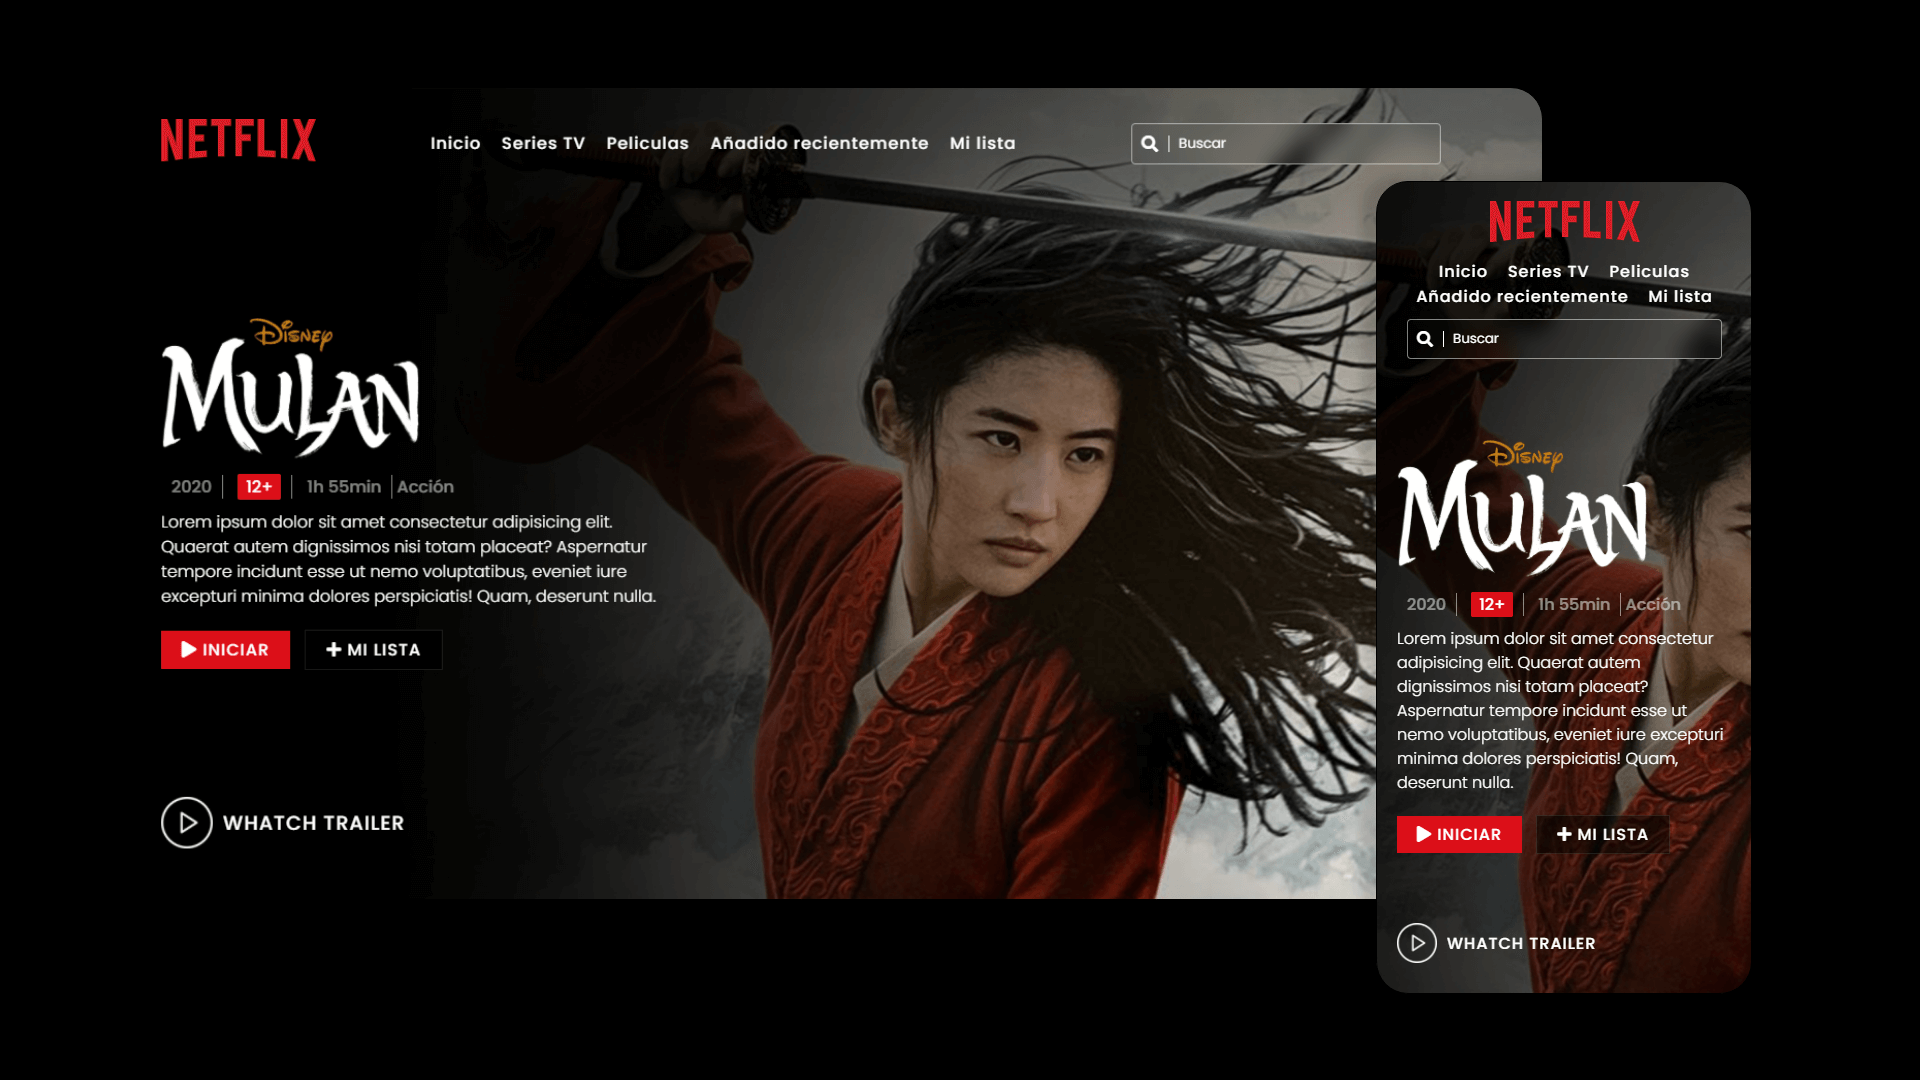
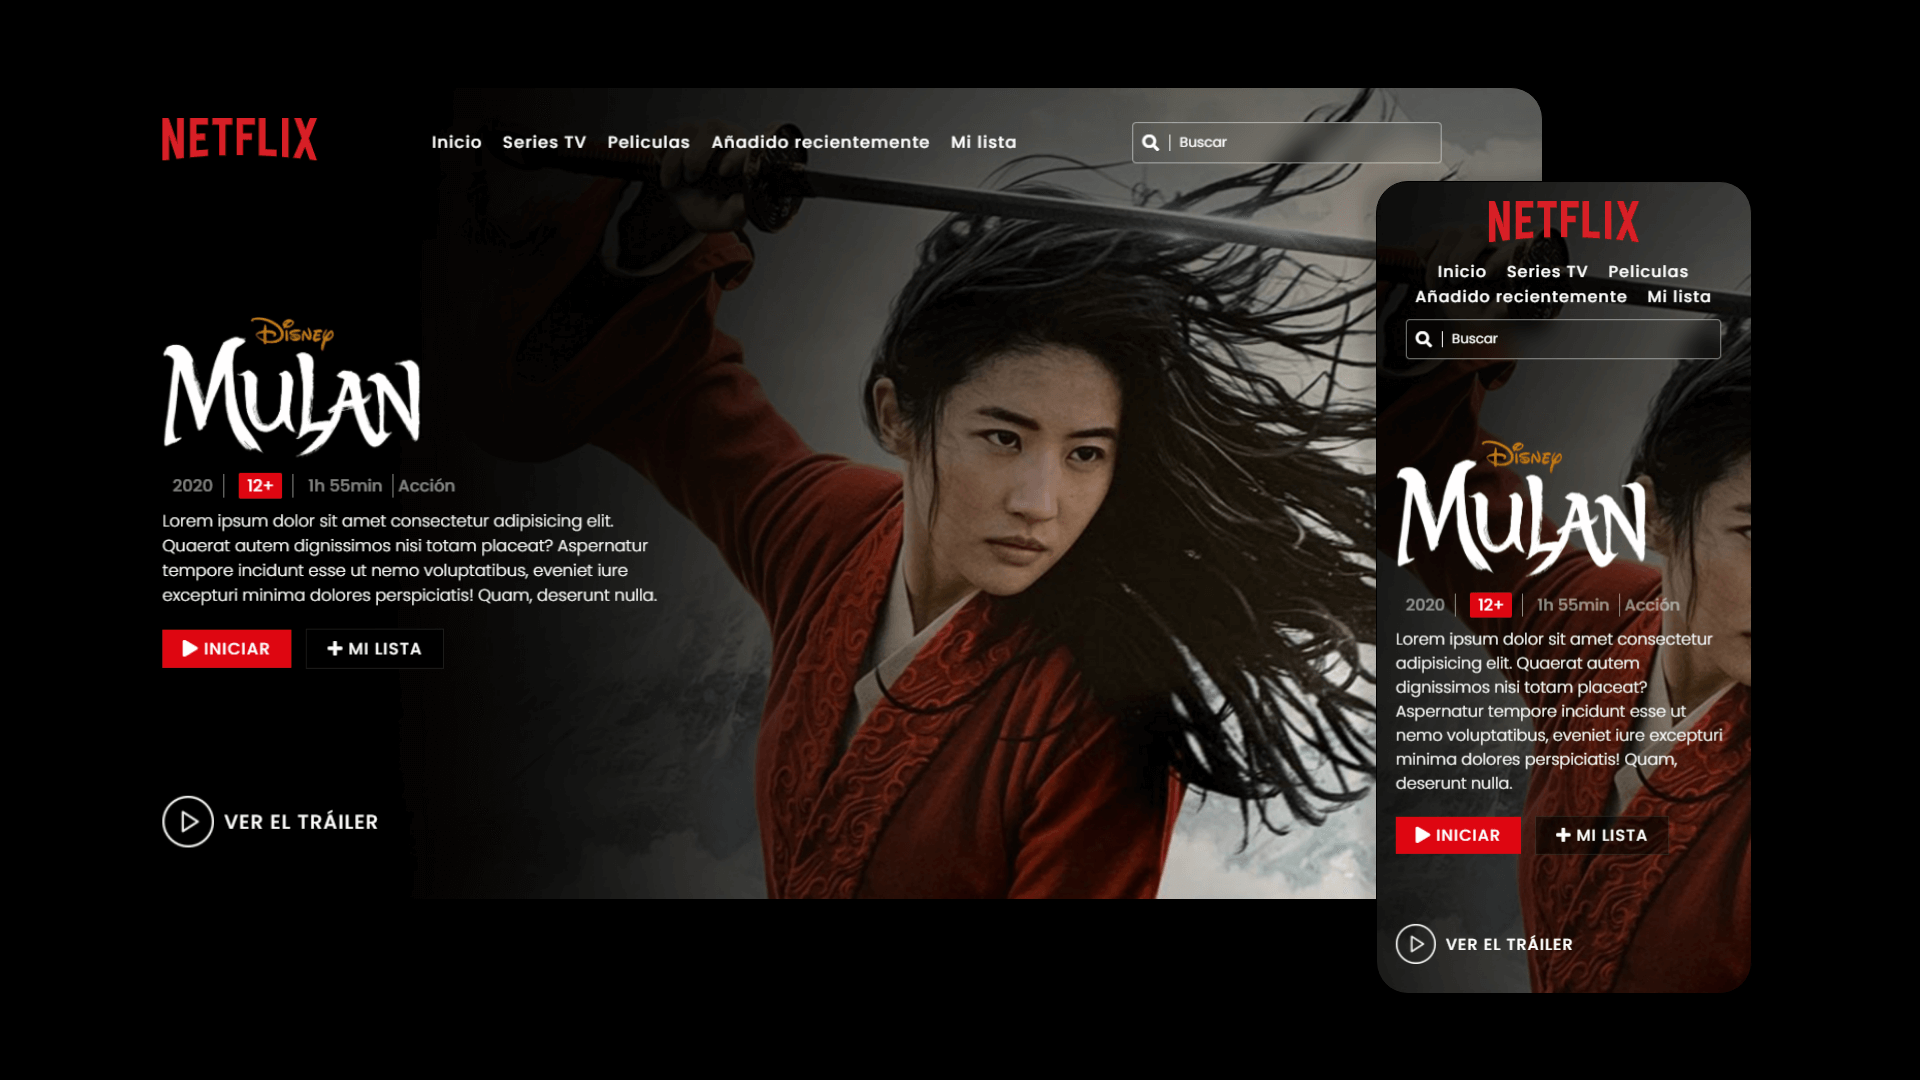
Update

diff --git a/index.html b/index.html
@@ -39,7 +39,7 @@
                 <a href="#"><i class="fas fa-plus"></i> Mi Lista</a>
             </div>
         </div>
-        <a class="play" onclick="toggleVideo();"><img src="resources/play.png">Whatch Trailer</a>
+        <a class="play" onclick="toggleVideo();"><img src="resources/play.png">Ver el tráiler</a>
     </div>
 
     <div class="trailer">
